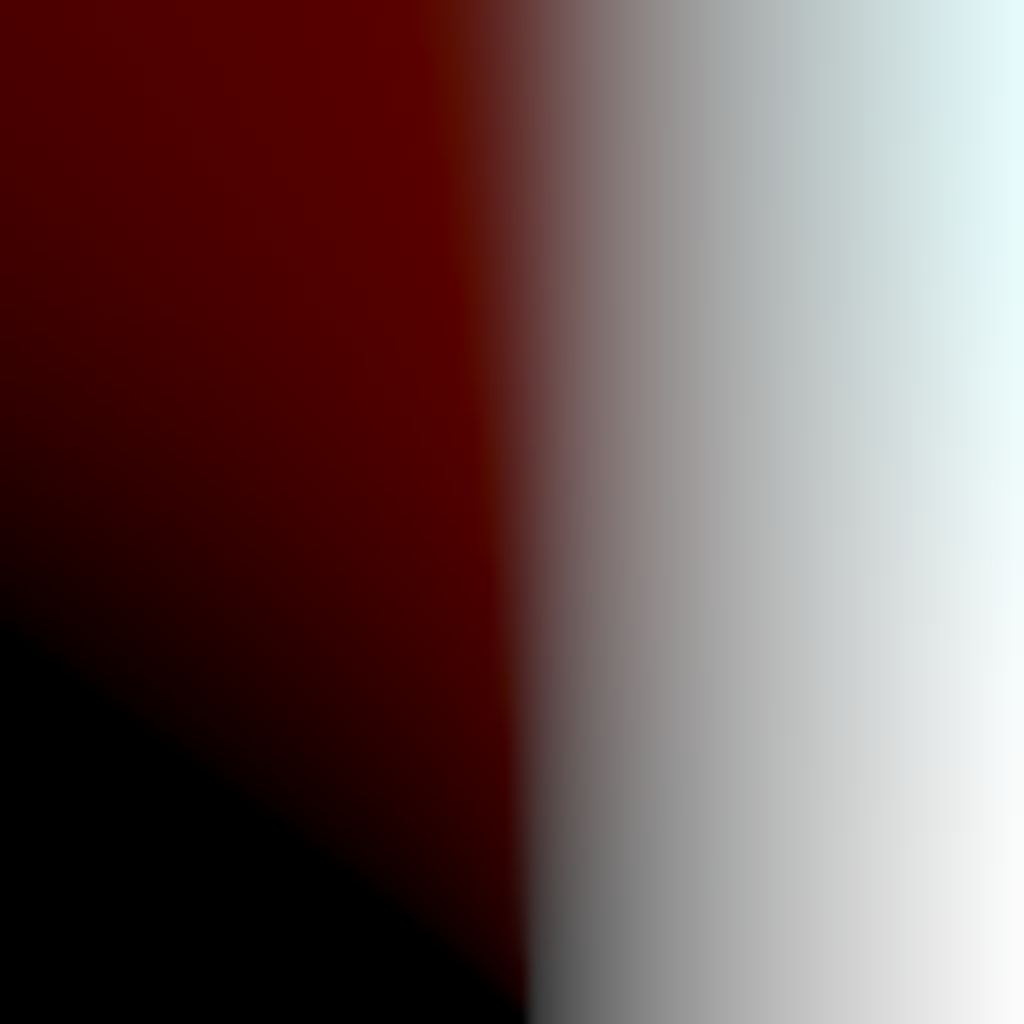
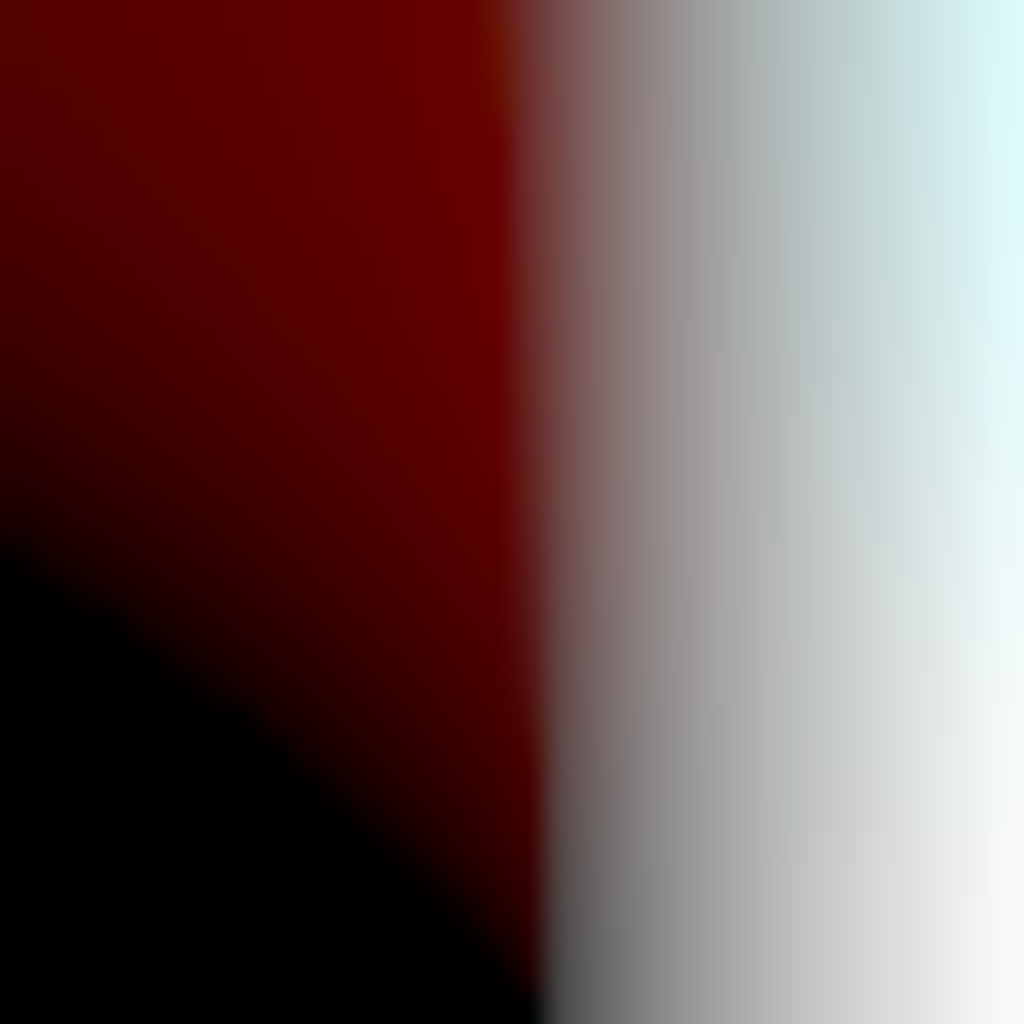
Update

Changed region(s): [[0.5, 0.625, 0.5625, 1.0], [0.4688, 0.0, 0.5, 0.375]]

diff --git a/PythonTools/CGTools/SSS/SSSLut.py b/PythonTools/CGTools/SSS/SSSLut.py
@@ -49,8 +49,8 @@ def R_origin(d=.0):
     ])
     s = np.zeros(3)
     # 这里可以手动加强散射色彩的强度
-    p = 5
-    k = 10000
+    p = 6
+    k = 1
     for i, t in enumerate(light_weights_tuples):
         v = np.array(list(t))
         v = np.power(v * k, p)
@@ -115,8 +115,6 @@ def ring_integrate(accuracy=.1, thickness=1.0, k=1.0, theta=0.0, cost=.0):
         total_light += light * weight * delta_x
         total_cost += light * delta_x
         x += delta_x
-
-
     return (total_light, total_weights, cost * total_cost)
 
 
@@ -233,5 +231,5 @@ def generate_pre_integrated(sample_size=64, thread_count=3, accuracy=.1, use_sph
 
 # 图片的一般参数在这里改
 # 如果想让烘出来的LUT色彩更明亮，可以进到R_origin方法里改物理参数
-generate_pre_integrated(sample_size=64, thread_count=16, accuracy=.001, max_r=1.0, cost=-0.001, use_sphere=False,
+generate_pre_integrated(sample_size=32, thread_count=16, accuracy=.001, max_r=1.0, cost=-0.005, use_sphere=False,
                         output_name="CPU_LUT")
